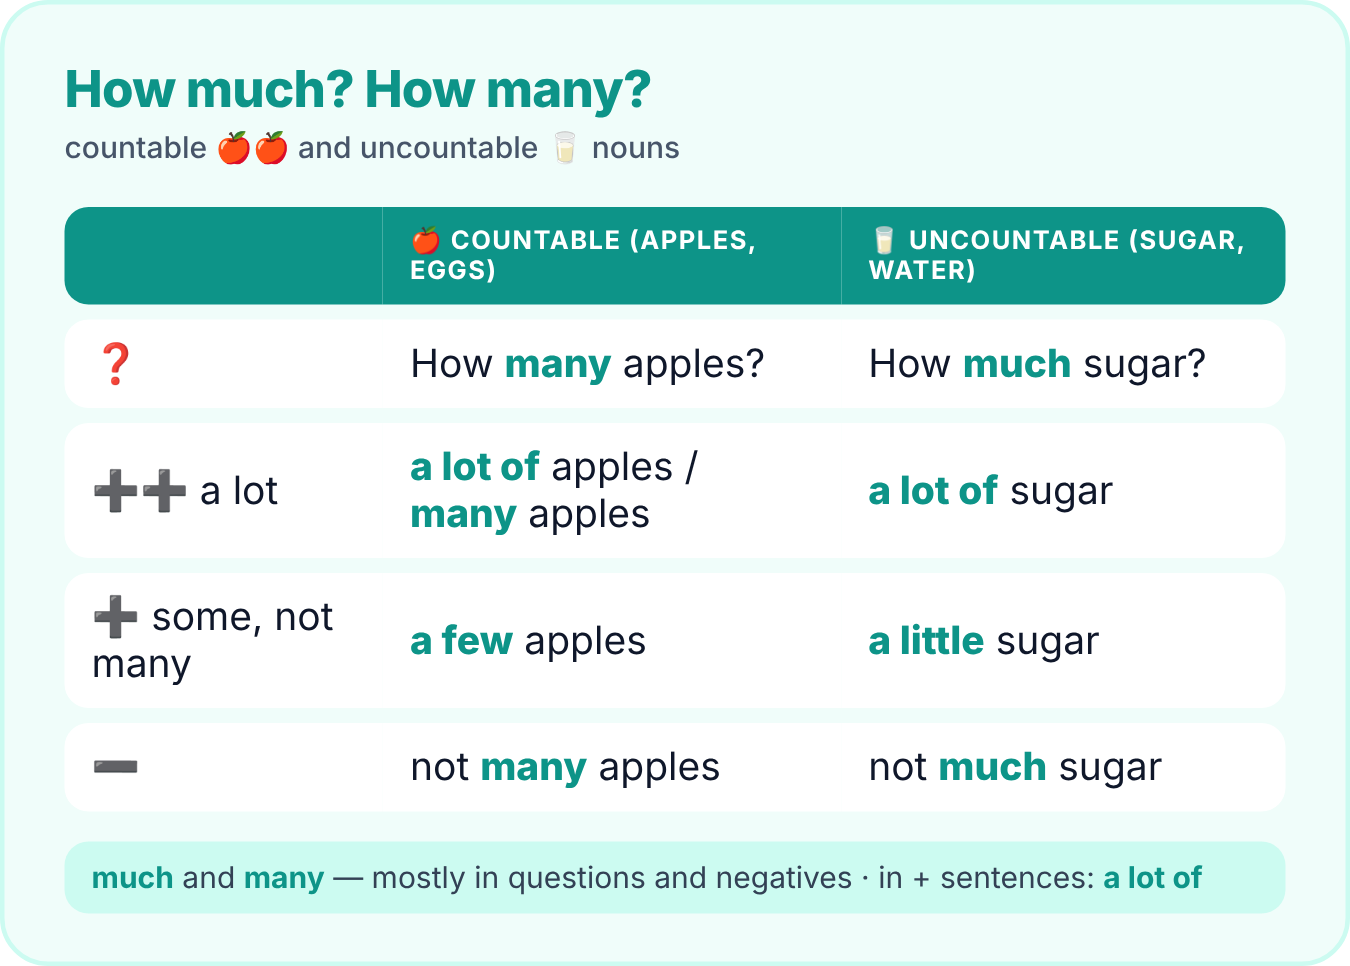
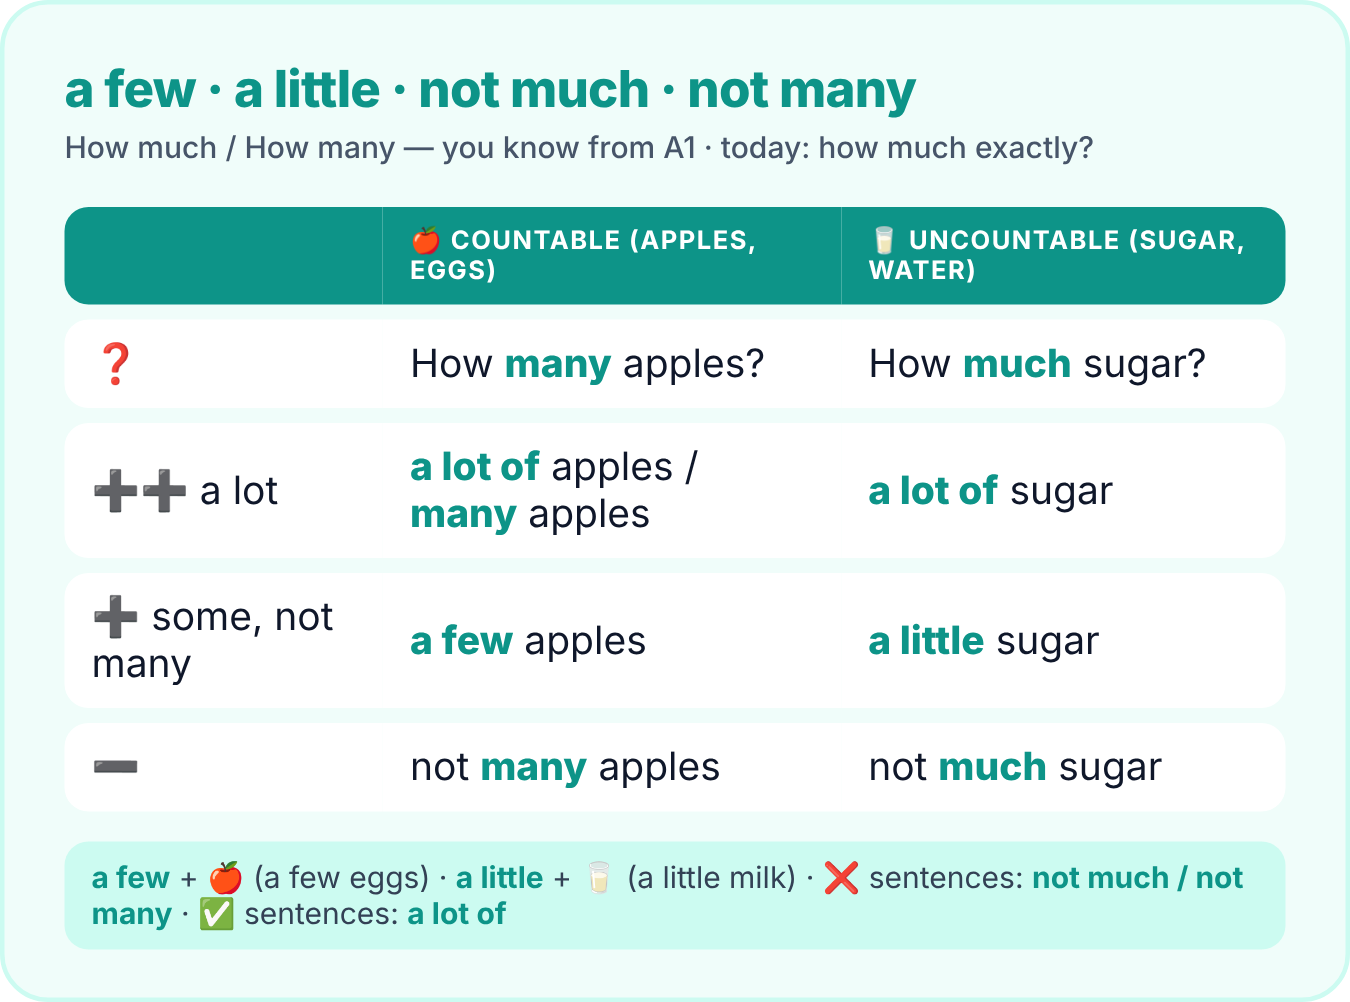
A2 9.1: no re-teaching of A1 countable / uncountable — quick review, focus on a few / a little, not much / not many
Claude-Session: https://claude.ai/code/session_0162qp84ABCQ5UMGYbvFRr41

diff --git a/content/english-a2/m09/l1.ts b/content/english-a2/m09/l1.ts
@@ -23,7 +23,7 @@ import {
 // 9.1 How much sugar? — a READING-focused lesson: two longer texts (hidden sugar; three food diaries). G: much / many, a lot of, a few / a little. V: food and nutrition. Say it right: lost syllables (vegetable, chocolate). No listening or video in class.
 export default lesson("a2-9.1", "How much sugar?", () => [
   section("Warm-up: Guess the sugar!", [
-    box("Today you will…", "- read about hidden sugar and real food diaries 📖\n- ask *How much…? How many…?* and use *a few, a little, a lot of*\n- talk honestly about what you eat 🍎🍫"),
+    box("Today you will…", "- read about hidden sugar and real food diaries 📖\n- review *How much / How many* from A1 — and learn *a few, a little, not much, not many*\n- talk honestly about what you eat 🍎🍫"),
     quiz("How many teaspoons of sugar? Guess! 🥄 (1 teaspoon = about 4 g)", [
       { q: "🥤 a can of cola (330 ml)", options: ["*about 9", "about 2", "about 20"] },
       { q: "🧃 a glass of orange juice (250 ml)", options: ["*about 5", "0 — it's fruit!", "about 15"] },
@@ -88,9 +88,9 @@ export default lesson("a2-9.1", "How much sugar?", () => [
       ["skip a meal", "⏭🍽 not eat breakfast, lunch or dinner"],
       ["go on a diet", "🥗⚖ eat less to lose weight"],
     ]),
-    sort("Countable or uncountable? Sort. 🍎🥛", {
-      "🍎 countable": ["apple", "egg", "cookie", "vegetable", "banana"],
-      "🥛 uncountable": ["sugar", "water", "bread", "rice", "cheese"],
+    sort("Healthy or unhealthy habit? Sort. 💚🍟", {
+      "💚 healthy": ["home-cooked meals", "fresh vegetables", "a small portion", "nuts as a snack", "drinking water"],
+      "🍟 unhealthy": ["junk food every day", "skipping breakfast", "a lot of salt", "fatty snacks at night", "sweet drinks"],
     }),
     match("Match.", [
       ["have a sweet", "tooth"],
@@ -102,20 +102,21 @@ export default lesson("a2-9.1", "How much sugar?", () => [
     ]),
   ]),
 
-  section("Grammar: How much? How many?", [
-    quiz("Notice the rule 🔍 Look at the text: “a lot of sugar… many healthy foods… a little, not a lot… How many teaspoons?” Which is true?", [
-      { q: "We say How many with…", options: ["*things we can count: teaspoons, apples", "things we can't count: sugar, water", "all nouns"] },
-      { q: "We say How much with…", options: ["*things we can't count: sugar, juice", "things we can count: eggs", "people"] },
-      { q: "a little sugar / a few cookies means…", options: ["*some, but not much / not many", "a lot", "zero"] },
+  section("Grammar: a few, a little, not much, not many", [
+    tip("Countable / uncountable nouns and *How much / How many* are A1 — just check them in 1 minute: *How ___ eggs? How ___ water?* Today's new part: **a few / a little** and **not much / not many**."),
+    quiz("Notice the rule 🔍 Look at the texts: “Leo eats a little chocolate… Arman eats a few eggs… I don't eat much meat… Arman doesn't eat many sweets.” Which is true?", [
+      { q: "a few + …", options: ["*things we can count: a few eggs, a few cookies", "things we can't count: a few sugar", "all nouns"] },
+      { q: "a little + …", options: ["*things we can't count: a little cheese, a little sugar", "things we can count: a little apples", "people"] },
+      { q: "In negative sentences we usually say…", options: ["*not much / not many: I don't eat much meat", "a lot of: I don't eat a lot of… only", "a few: I don't eat a few meat"] },
     ]),
     table("quantifiers"),
     choose(
       "Choose.",
-      "1. How [*much/many] sugar do you eat?\n2. How [*many/much] eggs do we need?\n3. I drink [*a lot of/many] water every day.\n4. There's only [*a little/a few] milk left. 🥛\n5. I ate [*a few/a little] cookies with my tea. 🍪\n6. We don't have [*much/many] time.\n7. She doesn't eat [*many/much] vegetables.\n8. Can I have [*a little/a few] salt, please? 🧂",
+      "1. I drink [*a lot of/many] water every day.\n2. There's only [*a little/a few] milk left. 🥛\n3. I ate [*a few/a little] cookies with my tea. 🍪\n4. We don't have [*much/many] time.\n5. She doesn't eat [*many/much] vegetables.\n6. Can I have [*a little/a few] salt, please? 🧂\n7. I know [*a few/a little] good recipes.\n8. There isn't [*much/many] juice in the fridge.",
     ),
     gaps(
       "Complete with much, many, a few or a little.",
-      "1. How [much] water do you drink a day? 💧\n2. How [many] cups of coffee do you have? ☕\n3. I only had [a few] chips — just five! 🍟\n4. Add [a little] honey to your tea. 🍯\n5. There aren't [many] apples in the fridge. 🍎\n6. I don't eat [much] meat. 🥩\n7. We have [a few] minutes before the lesson. ⏰\n8. He puts [a little] sugar in his coffee — just half a teaspoon. 🥄",
+      "1. I don't drink [much] water — only one glass a day. 💧\n2. There aren't [many] cafés near my office. ☕\n3. I only had [a few] chips — just five! 🍟\n4. Add [a little] honey to your tea. 🍯\n5. There aren't [many] apples in the fridge. 🍎\n6. I don't eat [much] meat. 🥩\n7. We have [a few] minutes before the lesson. ⏰\n8. He puts [a little] sugar in his coffee — just half a teaspoon. 🥄",
     ),
     drag(
       "Complete the conversation.",
@@ -183,7 +184,7 @@ export default lesson("a2-9.1", "How much sugar?", () => [
 
   section("Wrap-up", [
     quiz("Quick quiz. Choose.", [
-      { q: "How ___ sugar?", options: ["*much", "many", "a few"] },
+      { q: "Add ___ honey. 🍯", options: ["*a little", "a few", "many"] },
       { q: "I ate ___ cookies.", options: ["*a few", "a little", "much"] },
       { q: "love sweet food =", options: ["*have a sweet tooth", "skip a meal", "go on a diet"] },
       { q: "chocolate has ___ syllables when we say it.", options: ["*2", "3", "4"] },
@@ -199,7 +200,7 @@ export default lesson("a2-9.1", "How much sugar?", () => [
       ),
       choose(
         "Choose.",
-        "1. How [*many/much] bananas did you buy?\n2. There's [*a little/a few] coffee left.\n3. I don't drink [*much/many] juice.\n4. She has [*a few/a little] good friends.\n5. We ate [*a lot of/many] pizza!\n6. How [*much/many] does it cost?",
+        "1. I bought [*a few/a little] bananas.\n2. There's [*a little/a few] coffee left.\n3. I don't drink [*much/many] juice.\n4. She has [*a few/a little] good friends.\n5. We ate [*a lot of/many] pizza!\n6. There aren't [*many/much] eggs in the fridge.",
       ),
     ],
     "Homework: Vocabulary and grammar",

diff --git a/content/english-a2/tables.ts b/content/english-a2/tables.ts
@@ -355,8 +355,8 @@ export const tables: GrammarTable[] = [
   // 9.1
   {
     name: "quantifiers",
-    title: "How much? How many?",
-    subtitle: "countable 🍎🍎 and uncountable 🥛 nouns",
+    title: "a few · a little · not much · not many",
+    subtitle: "How much / How many — you know from A1 · today: how much exactly?",
     color: "teal",
     columns: ["", "🍎 countable (apples, eggs)", "🥛 uncountable (sugar, water)"],
     rows: [
@@ -365,7 +365,7 @@ export const tables: GrammarTable[] = [
       ["➕ some, not many", "**a few** apples", "**a little** sugar"],
       ["➖", "not **many** apples", "not **much** sugar"],
     ],
-    note: "**much** and **many** — mostly in questions and negatives · in + sentences: **a lot of**",
+    note: "**a few** + 🍎 (a few eggs) · **a little** + 🥛 (a little milk) · ❌ sentences: **not much / not many** · ✅ sentences: **a lot of**",
   },
   // 9.2
   {
